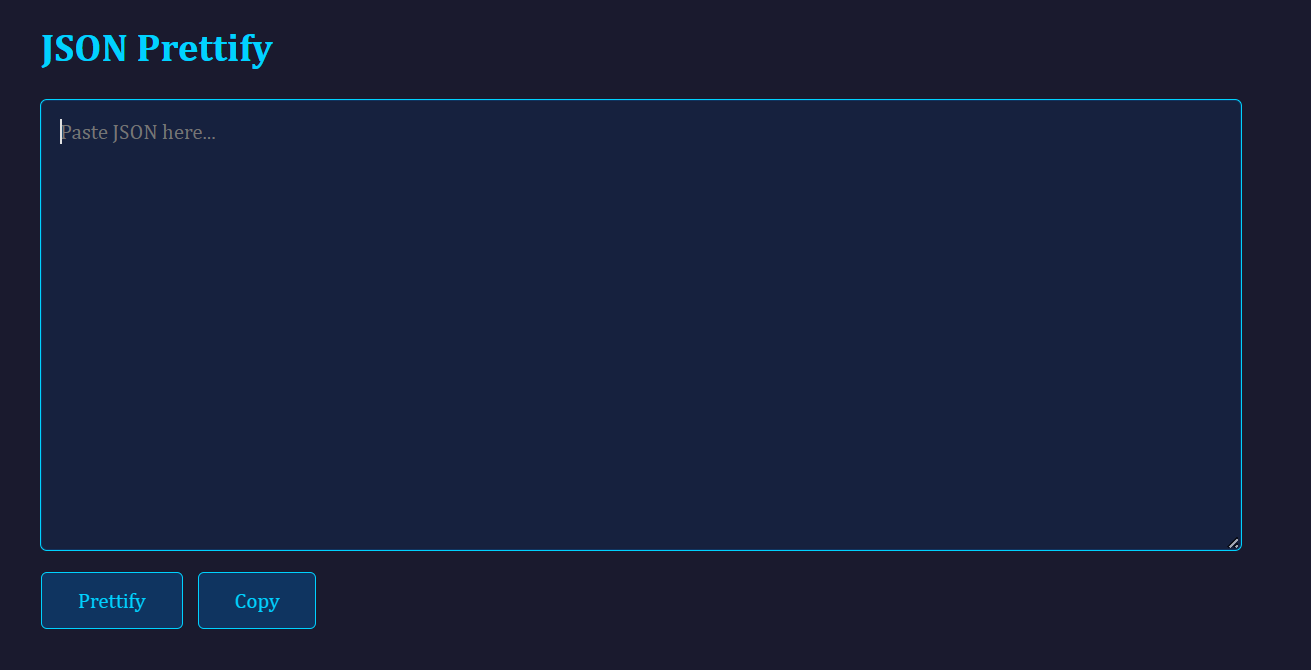
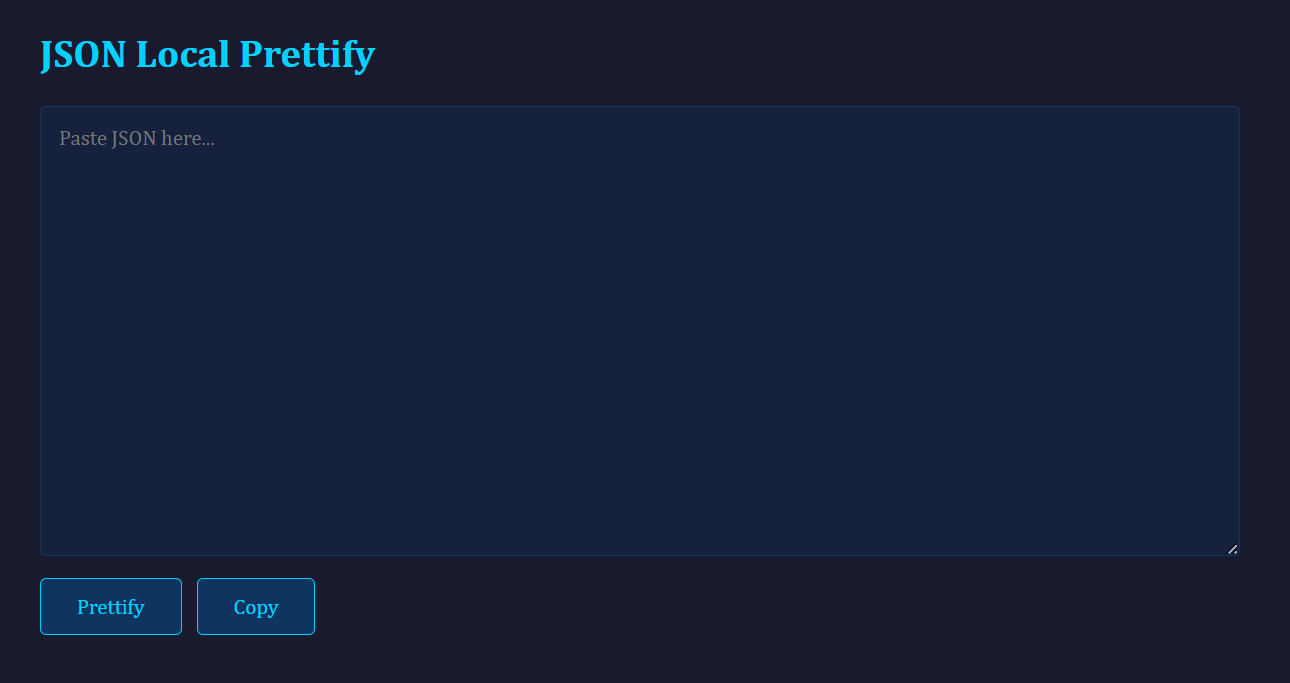
added copy and docs

diff --git a/app.py b/app.py
@@ -10,7 +10,7 @@ HTML = """<!DOCTYPE html>
 <head>
     <meta charset="UTF-8">
     <meta name="viewport" content="width=device-width, initial-scale=1.0">
-    <title>JSON Prettify</title>
+    <title>JSON Local Prettify</title>
     <script src="https://unpkg.com/htmx.org@2.0.4"></script>
     <style>
         * { box-sizing: border-box; margin: 0; padding: 0; }
@@ -66,7 +66,7 @@ HTML = """<!DOCTYPE html>
 </head>
 <body>
     <div class="container">
-        <h1>JSON Prettify</h1>
+        <h1>JSON Local Prettify</h1>
         <textarea id="raw" placeholder="Paste JSON here..."></textarea>
         <div class="buttons">
             <button onclick="doPrettify()">Prettify</button>